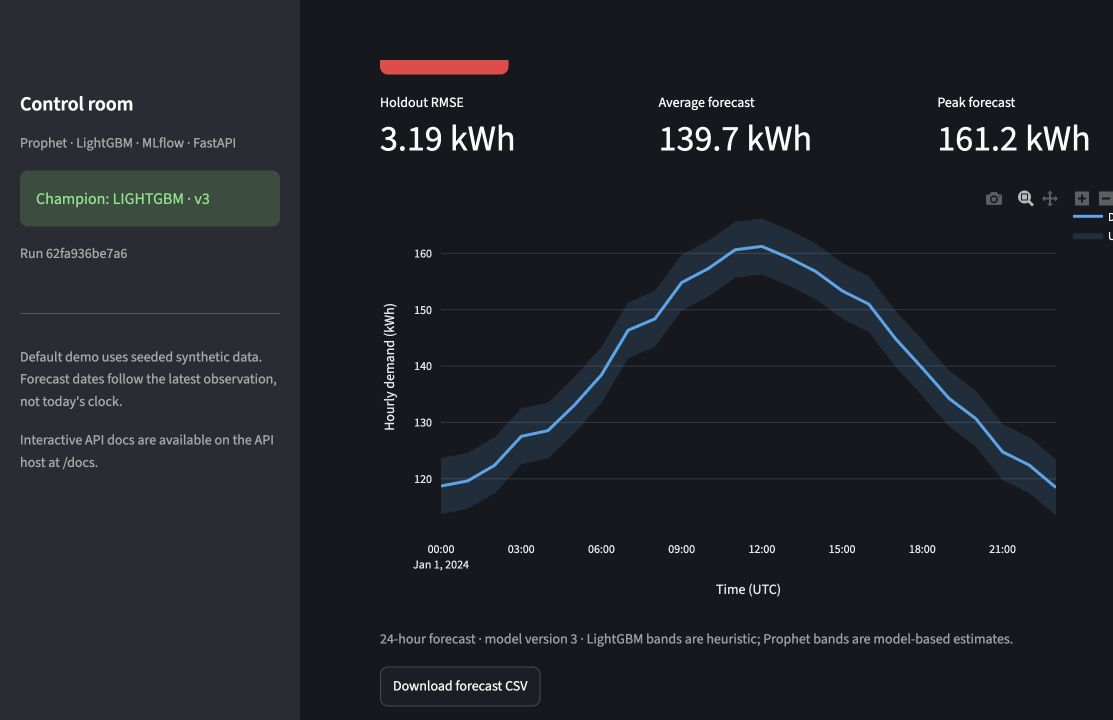
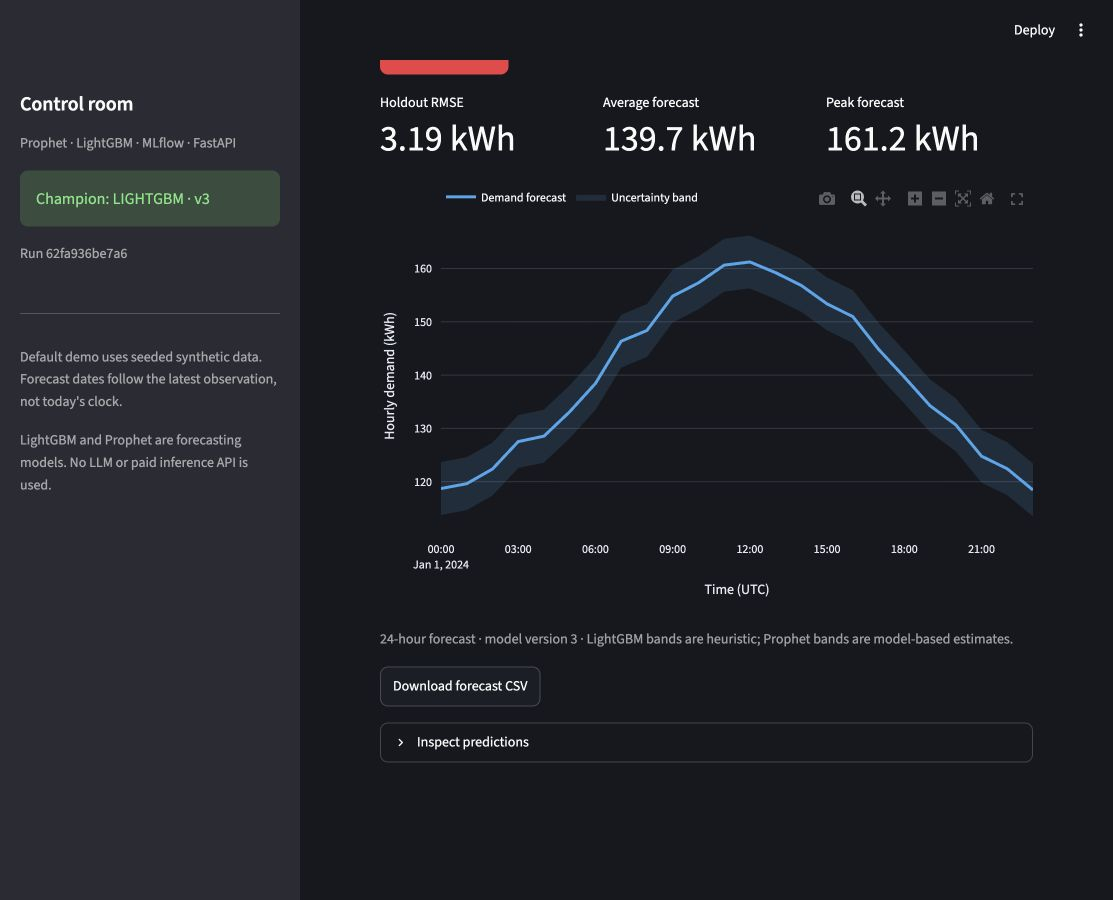
[skip render] Add dashboard screenshots and animated portfolio walkthrough

diff --git a/README.md b/README.md
@@ -6,6 +6,8 @@ Built to demonstrate Python engineering, time-series modeling, experiment tracki
 
 ![ForecastOps demand dashboard](docs/images/dashboard.jpg)
 
+[Watch the animated demo](docs/images/demo.gif) · [Demo walkthrough](docs/DEMO.md)
+
 ## Models, not LLMs
 
 ForecastOps uses **LightGBM** (gradient-boosted decision trees) and **Prophet** (trend and seasonal forecasting). Both train locally on hourly demand. No large language model, OpenAI API key, or paid inference service is used.
